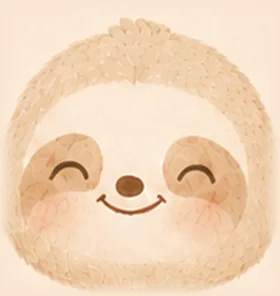
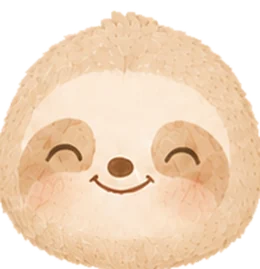
頭像去背成頭型、對話框改手繪感、幾人份獨立、碎碎念改成慢寶在說話
- 六張表情逐張自動找不會啃到臉的最大容差，切出透明頭型
- 對話框圓角改不對稱，尾巴改兩顆圓點
- 幾人份從時間那一欄獨立出來，timeNote 收到時間下面
- tips 改成慢寶頭像＋對話框

diff --git a/index.html b/index.html
@@ -107,26 +107,46 @@ img { display: block; max-width: 100%; }
   text-align: center;
 }
 
-/* 對話框在慢寶頭上，尾巴朝下指著牠 */
+/* 對話框：圓角刻意不對稱，看起來像手畫的，尾巴是圓的不是尖的 */
 .bo-say {
   position: relative;
+  display: inline-block;
   background: var(--surface);
-  border-radius: var(--r-lg);
-  padding: 14px 22px;
+  border: 1.5px solid var(--line);
+  border-radius: 30px 26px 28px 24px / 26px 30px 24px 28px;
+  padding: 13px 22px;
   font-size: 15px;
-  box-shadow: var(--shadow);
+  line-height: 1.55;
+  color: var(--text);
+  box-shadow: 0 3px 12px rgba(150, 110, 70, .09);
   max-width: 300px;
-  margin: 0 auto 14px;
-  animation: pop .3s cubic-bezier(.34,1.56,.64,1) both;
+  margin: 0 auto 16px;
+  animation: pop .32s cubic-bezier(.34,1.5,.64,1) both;
 }
-.bo-say::after {
+/* 兩顆逐漸變小的圓，softer than a triangle */
+.bo-say::before, .bo-say::after {
   content: '';
-  position: absolute; left: 50%; bottom: -8px; transform: translateX(-50%);
-  border: 9px solid transparent;
-  border-top-color: var(--surface);
-  border-bottom: 0;
+  position: absolute;
+  background: var(--surface);
+  border: 1.5px solid var(--line);
+  border-radius: 50%;
 }
-@keyframes pop { from { opacity: 0; transform: translateY(6px) scale(.96); } to { opacity: 1; transform: none; } }
+.bo-say::before { width: 13px; height: 13px; left: 50%; margin-left: -18px; bottom: -9px; }
+.bo-say::after  { width: 7px;  height: 7px;  left: 50%; margin-left: -3px;  bottom: -19px; }
+@keyframes pop { from { opacity: 0; transform: translateY(7px) scale(.95); } to { opacity: 1; transform: none; } }
+
+/* 慢寶在內文裡插嘴：頭像 ＋ 對話框 */
+.bo-aside { display: flex; align-items: flex-start; gap: 10px; margin: 10px 0; }
+.bo-aside img { width: 46px; flex: none; margin-top: 2px; }
+.bo-aside .bub {
+  position: relative;
+  background: var(--surface);
+  border: 1.5px solid var(--line);
+  border-radius: 22px 24px 22px 8px / 22px 22px 24px 10px;
+  padding: 10px 15px;
+  font-size: 13.5px; line-height: 1.7; color: var(--muted);
+  box-shadow: 0 2px 8px rgba(150,110,70,.07);
+}
 
 .bo-stage { width: 100%; max-width: 430px; }
 .bo-stage img { width: 100%; }
@@ -225,12 +245,17 @@ img { display: block; max-width: 100%; }
   font-size: 13.5px; color: var(--muted); box-shadow: var(--shadow);
 }
 .d-bar {
-  display: flex; align-items: center; gap: 14px;
-  margin: 16px 20px 0; padding: 13px 16px;
+  margin: 16px 14px 0; padding: 4px 16px;
   background: var(--surface); border-radius: var(--r-md); box-shadow: var(--shadow);
 }
-.d-bar .lbl { font-size: 11px; color: var(--faint); letter-spacing: 1px; }
-.d-bar .val { font-size: 14px; font-weight: 700; }
+.d-bar .r {
+  display: flex; align-items: center; gap: 14px;
+  padding: 11px 0;
+}
+.d-bar .r + .r { border-top: 1px dashed var(--line); }
+.d-bar .lbl { font-size: 12px; color: var(--faint); letter-spacing: 1px; flex: none; min-width: 52px; }
+.d-bar .val { font-size: 14.5px; font-weight: 700; }
+.d-bar .tn { font-size: 12px; color: var(--muted); margin-top: 3px; line-height: 1.5; }
 .portion { margin-left: auto; display: flex; align-items: center; gap: 4px; }
 .portion button {
   width: 30px; height: 30px; border-radius: 50%;
@@ -606,17 +631,22 @@ function renderRecipe(el, m) {
     </div>
     ${r.note ? `<div class="d-note">${esc(r.note)}</div>` : ''}
     <div class="d-bar">
-      <div>
-        <div class="lbl">時間</div>
-        <div class="val">${esc(r.time)}</div>
+      <div class="r">
+        <span class="lbl">時間</span>
+        <div>
+          <div class="val">${esc(r.time)}</div>
+          ${r.timeNote ? `<div class="tn">${esc(r.timeNote)}</div>` : ''}
+        </div>
       </div>
-      <div class="portion">
-        <button onclick="setPortion(-1,${r.id})">−</button>
-        <span class="n" id="pn">${portions}</span>
-        <button onclick="setPortion(1,${r.id})">＋</button>
+      <div class="r">
+        <span class="lbl">幾人份</span>
+        <div class="portion">
+          <button onclick="setPortion(-1,${r.id})">−</button>
+          <span class="n" id="pn">${portions}</span>
+          <button onclick="setPortion(1,${r.id})">＋</button>
+        </div>
       </div>
     </div>
-    ${r.timeNote ? `<div class="d-note" style="margin-top:10px">${esc(r.timeNote)}</div>` : ''}
     <div class="sect">
       <div class="sect-t">備料清單</div>
       <div id="ings"></div>
@@ -627,8 +657,12 @@ function renderRecipe(el, m) {
     </div>
     ${r.tips && r.tips.length ? `
       <div class="sect">
-        <div class="sect-t">慢寶的提醒</div>
-        <ul class="tips">${r.tips.map(t => `<li>${esc(t)}</li>`).join('')}</ul>
+        <div class="sect-t">慢寶碎碎念</div>
+        ${r.tips.map((t, i) => `
+          <div class="bo-aside">
+            <img src="${[BO.sleepy, BO.cheeky, BO.blank, BO.satisfied][i % 4]}" alt="">
+            <div class="bub">${esc(t)}</div>
+          </div>`).join('')}
       </div>` : ''}
     <div class="sect">
       <button class="tray-go" style="width:100%;padding:14px"
